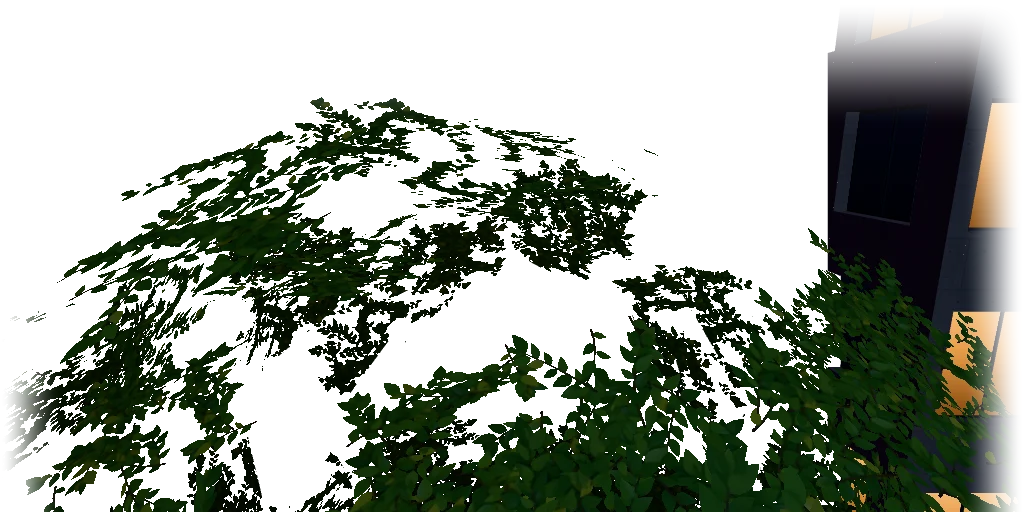
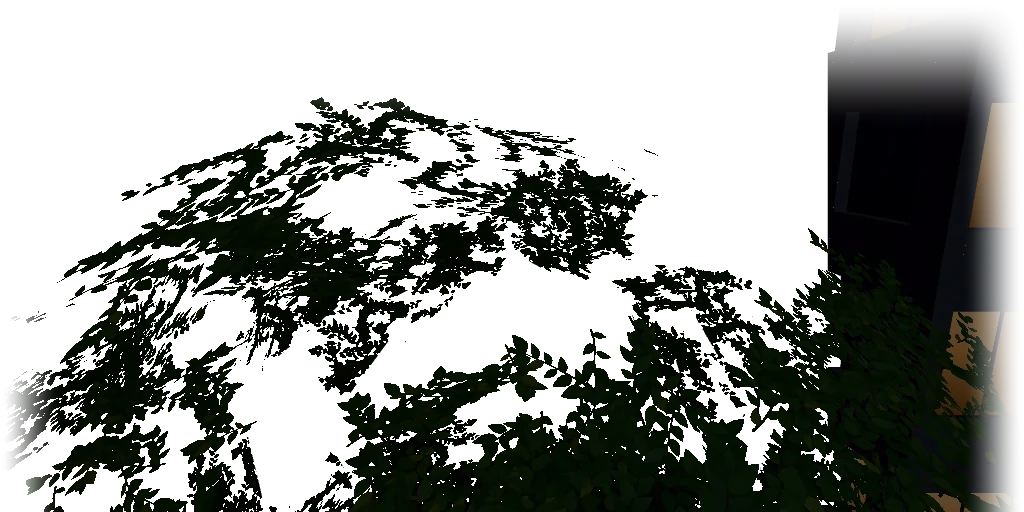
霖澤 5F 研究室窗外晚上的樹太亮（BB-B 16:04 P2）：近景夜景 linze_5f_near_night.webp RGB ×0.4（21.4→8.5，3F 6.6、4F 11.7），不用改程式；CC 重拍 20:00／聖誕夜
Claude-Session: https://claude.ai/code/session_01GV1WG3UeT2DhuDpxeWJsvD

diff --git a/docs/art-rebuild/second_ai/wip/lz5f_night_view_1107/README.md b/docs/art-rebuild/second_ai/wip/lz5f_night_view_1107/README.md
@@ -1,0 +1,38 @@
+# 霖澤 5F 研究室窗外晚上還是亮綠的樹（BB-B 16:04 P2；LAWWW2-B 2026-11-07）
+
+**BB-B 16:04**（CC-B 雲端截圖 `cc-testing d164f36ce6` `SCENE3_e66_cloud/lz5f_views.jpg` 第 3、4 列）：
+- 研究室那面窗在 20:00、聖誕夜 21:00，窗外還是白天亮綠的樹；
+- 走廊的窗已經是暗的。
+
+## 原因
+
+- 5F 的窗是 `room()` 的窗，窗景兩層：
+  - 遠景 `linze_5f_{day,night}.webp`；
+  - 近景（法學院廣場大樟樹的樹冠）`linze_5f_near_{day,night}.webp`。
+- 19:12 以後換夜景，程式沒問題：`zones3d.js` room() 的 applyTime → `W3.setWindowView`；近景照 `VIEW_LAYERS.linze_5f`。
+- 問題在 **5F 近景的夜景那一張太亮**。10-23 拍的時候，樹冠被旁邊大樓亮著的窗照到，葉子還是綠的：
+
+| 近景夜景 | 平均亮度（不透明的地方，0～255） |
+|---|---|
+| 3F | 6.6 |
+| 4F | 11.7 |
+| **5F（原本）** | **21.4** |
+| 5F（改後） | 8.5 |
+
+研究室的窗正對樹冠，所以晚上看到的是一片亮綠的葉子。走廊那一頭的窗（東端）對著的是遠景，晚上是暗的。
+
+## 改了什麼
+
+- 只換 `assets/models/env/views/linze_5f_near_night.webp`：RGB × 0.4，透明度不變。
+- 樹冠變成夜裡的暗色剪影，旁邊大樓的窗光、遠景照舊。
+- 不用改程式。
+- 原檔是我（LAWWW2-B）10-23 交的 `cb1d9ecb0`，和開發分支同一個檔（sha256 `ec7a5fe3…`）。
+
+上：原本（遠景＋近景疊起來）；下：改後。
+
+![改前改後](near_night_before_after.jpg)
+
+## 還沒驗
+
+- 瀏覽器沒跑（D131）。
+- 請 CC 重拍 `lz5f_views` 的 20:00 研究室、聖誕夜 21:00（labLights 'sis'），看窗外是不是暗了、樹冠還看得出輪廓。
